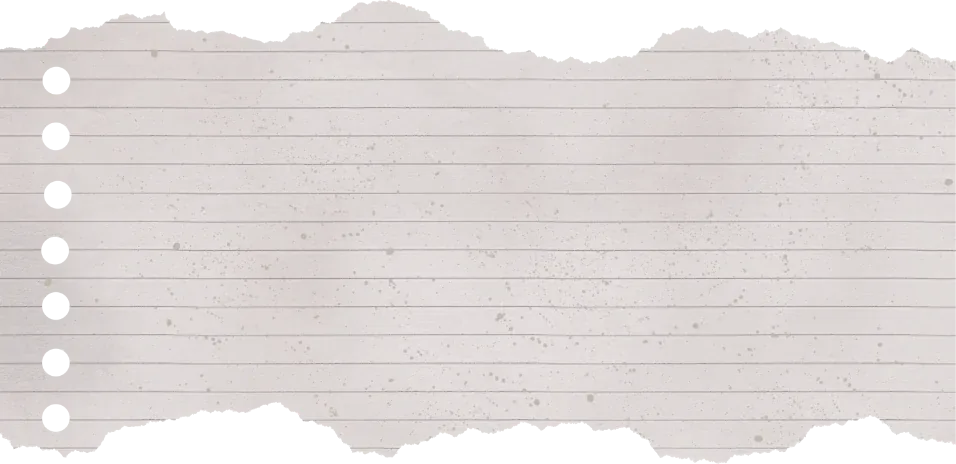
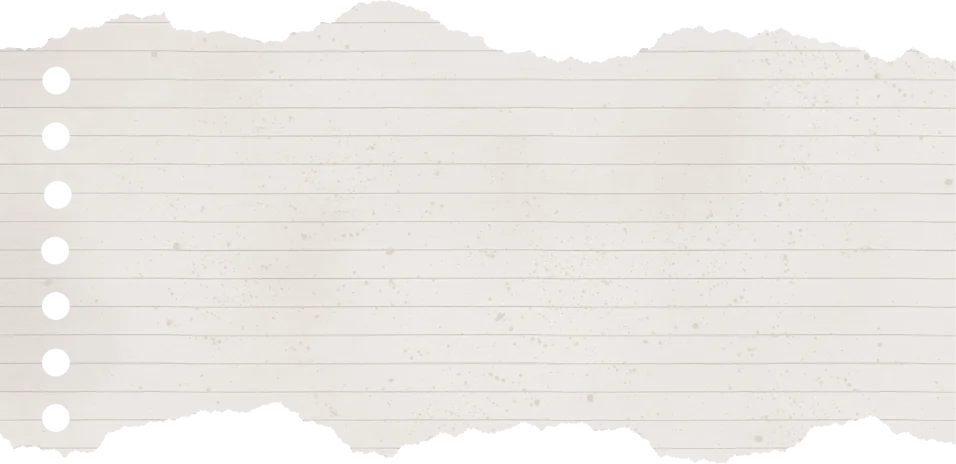
Desktop fixes: binder split, First Look, brain dump, board cards
- Binder rings now sit between With an agent and Waiting on me
- First Look paper brightened; tape moved off the label and chips
- Brain dump title on the first ruled line, typing starts on line two
- GOALS list moved down onto the ruled area
- Coming up and Board tip no longer hidden by the folder pocket
- Board cards stay inside their columns; chips wrap instead of overflowing

Claude-Session: https://claude.ai/code/session_016YGNXWNPLjq7FU6Tui6e5G

diff --git a/index.html b/index.html
@@ -481,7 +481,7 @@ nav.tabs a[href="#agents"]{background-color:var(--green-2)}
 .dump.paper .dump-hint{position:absolute;right:9.5cqw;top:12.4cqw;font-family:var(--display);font-style:italic;font-size:max(.8rem,2.7cqw);color:var(--muted)}
 .dump.paper textarea{position:absolute;left:20.8cqw;right:9.5cqw;top:18.73cqw;height:55cqw;padding:0;margin:0;border:0;outline-offset:6px;background:transparent;font-family:var(--display);font-size:3.5cqw;line-height:5.5cqw;resize:none;overflow:hidden;color:#2b2a22}
 .dump.paper .dump-acts{position:absolute;left:20.8cqw;top:76cqw;display:flex;gap:.35rem}
-.dump.paper .sticker-img{right:3cqw!important;top:9cqw!important;width:9cqw!important}
+.dump.paper .sticker-img{right:12cqw!important;top:auto!important;bottom:6cqw!important;width:8cqw!important}
 .goals.paper .goal-line{font-family:var(--display);font-size:1.25rem;line-height:1.35}
 .goals.paper .goal-line b{font-family:var(--body)}
 .energy-card .lotus-title{font-size:1.45rem;line-height:1.1}
@@ -495,6 +495,30 @@ nav.tabs a[href="#agents"]{background-color:var(--green-2)}
   .folder:after{height:34px}
 }
 @media (max-width:760px){ .folder-stack:before{transform:translate(6px,6px)} .folder-stack:after{transform:translate(3px,3px)} .shell{width:calc(100% - 1.2rem)} }
+
+/* ===== round 5 desktop fixes ===== */
+.spread{grid-template-columns:minmax(0,1.62fr) 46px minmax(0,1fr)}
+.page.left{grid-template-columns:minmax(170px,1.1fr) repeat(3,minmax(0,1fr))}
+.page.right{grid-template-columns:repeat(3,minmax(0,1fr))}
+.col{min-width:0;overflow:hidden}
+.tcard{min-width:0;max-width:100%;overflow:hidden}
+.tcard .meta{min-width:0}
+.tcard .meta .chip{white-space:normal;max-width:100%;text-align:left;line-height:1.25;padding:.1rem .45rem}
+.tcard h4,.tcard .step{overflow-wrap:break-word;word-break:normal;hyphens:manual}
+.first-look .sticker-img{right:auto!important;left:30%!important;top:-52px!important;width:84px!important;transform:rotate(-5deg)!important}
+.first-look .priority-areas .chip{white-space:nowrap}
+.first-look .mini .row{justify-content:flex-end}
+.dump.paper h2{top:18.8cqw;font-size:4.6cqw;line-height:1}
+.dump.paper .dump-hint{top:20.4cqw;font-size:2.7cqw;line-height:1}
+.dump.paper textarea{top:24.39cqw;height:49.5cqw}
+.dump.paper .dump-acts{top:74.5cqw}
+.goals.paper{padding-top:31%}
+.goals.paper .beads-img{top:10%}
+.corkboard{margin-bottom:-1.3rem}
+.pair{grid-template-columns:minmax(0,1.4fr) minmax(0,1fr)}
+.folder > main{padding-bottom:1.8rem}
+.folder[data-view="today"] > main{padding-bottom:0}
+.coming-card{margin-bottom:.4rem}
 @media (max-width:760px){
   .first-look .sticker-img{display:none}
   .three-row .acts .btn{white-space:nowrap}
@@ -1074,9 +1098,8 @@ function viewToday(){
         <section class="dump paper" aria-labelledby="dump-title">
           <img class="sticker-img" src="assets/bulb.webp" alt="">
           <h2 id="dump-title">Brain dump</h2>
-          <span class="dump-hint">one thing per line</span>
           <label class="sr" for="dump-text">Brain dump, one item per line. Everything goes to the parking lot.</label>
-          <textarea id="dump-text" placeholder="email Desiree about next week&#10;look up Roblox Studio tutorials"></textarea>
+          <textarea id="dump-text" placeholder="one thing per line&#10;email Desiree about next week&#10;look up Roblox Studio tutorials"></textarea>
           <div class="dump-acts">
             ${sample?`<button class="btn small primary" data-act="dump-sort">✨ Sort with Claude</button>`:""}
             <button class="btn small" data-act="dump-park">Park it all</button>
@@ -1176,10 +1199,10 @@ function viewBoard(){
             ${AREAS.map((a,i)=>`<li><button data-act="filter" data-v="${a.id}" aria-pressed="${boardFilter===a.id}"><span class="n" aria-hidden="true">${i+1}</span><span>${esc(a.name)}</span><span class="ct" aria-label="${openIn(a.id)} open">${openIn(a.id)}</span></button></li>`).join("")}
           </ul>
         </nav>
-        ${["someday","now"].map(id=>col(STATUS[id])).join("")}
+        ${["someday","now","agent"].map(id=>col(STATUS[id])).join("")}
       </div>
       <div class="rings" aria-hidden="true">${'<span class="ring"></span>'.repeat(6)}</div>
-      <div class="page right">${["agent","review","others","done"].map(id=>col(STATUS[id])).join("")}</div>
+      <div class="page right">${["review","others","done"].map(id=>col(STATUS[id])).join("")}</div>
     </div>
   </div>
   <p style="font-size:.82rem;margin-top:.7rem">Tip: drag cards between columns, or open one and change "Where is it?"</p>`;
